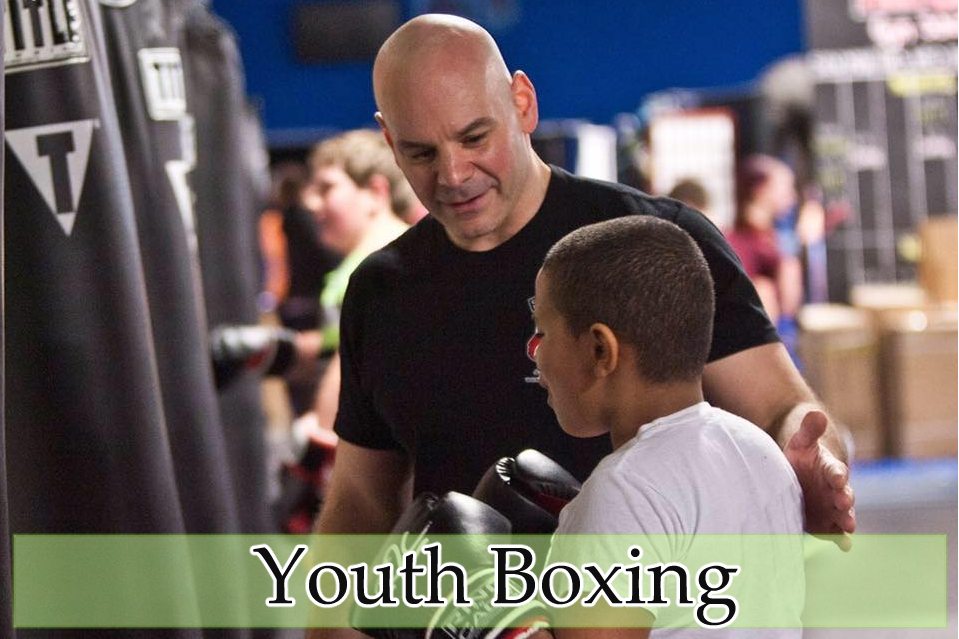
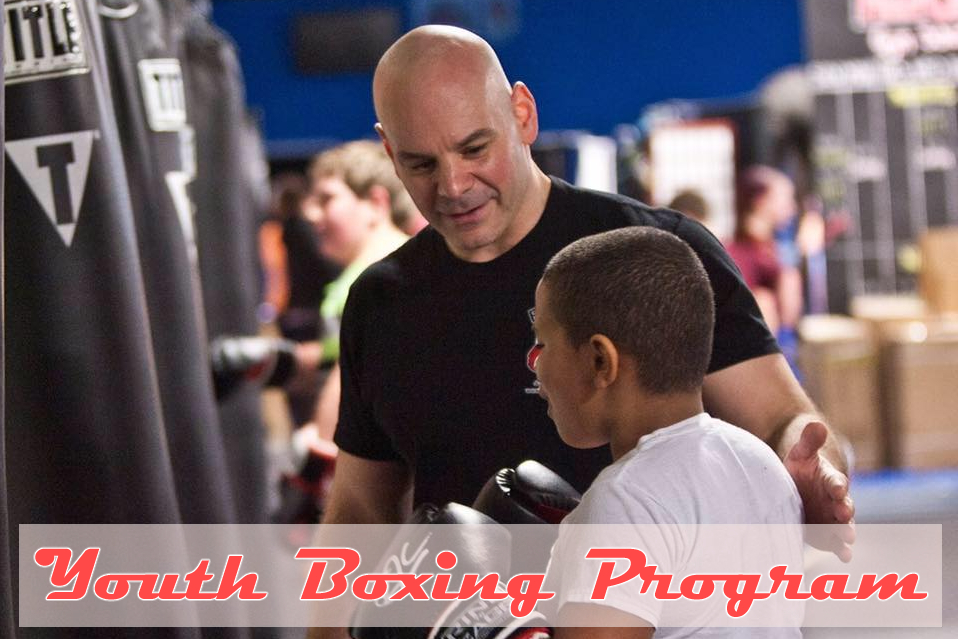
format updated

diff --git a/minerCombatHompage.html b/minerCombatHompage.html
@@ -3,64 +3,81 @@
     <head>
       <title>Miner Combat Homepage</title>
       <link rel= 'stylesheet' type='text/css' href='style.css'>
-      <link href="https://fonts.googleapis.com/css?family=Monoton" rel="stylesheet">
+      <link href="https://fonts.googleapis.com/css?family=Oswald" rel="stylesheet">
       <script src="https://ajax.googleapis.com/ajax/libs/jquery/3.3.1/jquery.min.js"></script>
     </head>
+
     <body>
+
       <header>
          <nav>
-             <a href=#aboutUs>About Us</a>
-             <a href=#whatWeOffer>What We Offer</a>
-             <a href=#schedule>Schedule</a>
-             <a href=#upcomingEvents>Upcoming Events</a>
-             <a href=#video>Video</a>
-             <a href=#contactUs>Contact Us</a>
-
+             <a href=#aboutUs>ABOUT US</a>
+             <a href=#whatWeOffer>WHAT WE OFFER</a>
+             <a href=#schedule>SCHEDULE</a>
+             <a href=#upcomingEvents>UPCOMING EVENTS</a>
+             <a href=#video>VIDEO</a>
+             <a href=#contactUs>CONTACT US</a>
          </nav>
-
       </header>
-      <!--banner-->
-      
-      <div id='bannerBorder'><img id = 'banner' src='images/banner.jpg'></div>
-      <h1 class='tagLine'>Largest, Most Affordable Gym in the BerkShires</h1>
+      <!--banner-->      
+      <img id = 'banner' src='images/banner.jpg'>
+      <h1 class='tagLine'>LARGEST, MOST AFFORDABLE GYM IN THE BERKSHIRES</h1>
       <!--Offered Classes-->
-      <div class='box'>
-         <!--Minor Combat Youth Boxing Program-->
-         <img class='classPhotos' src='images/Youth_Boxing.jpg'>        <div class='classDetails'>
-         
-            <p>Boxing offers children several mental health benefits needed in their daily lives. Improved physical health, and improved performance builds children's confidence. Extreme focus is required, and this can translate into better focus in the classroom. </p>
-            <p>This is a community outreach program for the youth of Northern Berkshire county and free to anyone who cannot afford the cost.</p>
-            <p>Tuesday, Wednesday and Thursday 4-5pm</p>
-         </div> 
-         <!--North Adams Crossfit-->
-         <img class='classPhotos' src='images/crossFit.jpg'>
-            <div class='classDetails'>
-            <h1>Coming Soon</h1>
-            </div>
-        <!--ChicBoxing-->
-         <img class='classPhotos' src='images/boxing2.jpg'>
-         <div class='classDetails'>           
-            <p>This strength training class is an empowering all women's boxing class set to exhilarating music.The high and low intensity rounds burn high calories and sculpt the body.</p> 
-            <p>Saturday 10:15am, Tuesday 6:45pm, Thursday 5:45pm</p>
-        </div> 
+     <div class = 'box'>
+      <div class = 'container'>
+        <img class ='classPhoto' src = 'images/chicboxing.jpg'>
+        <div class = 'overlay'>
+          <div class = 'text'>This strength training class is an empowering all women's boxing class set to exhilarating music.The high and low intensity rounds burn high calories and sculpt the body.<br><br>
+          Saturday 10:15am, Tuesday 6:45pm, Thursday 5:45pm
+          </div>
+        </div>
       </div>
-      <div class= 'box container'>
-         <!--RowBox-->
-         <img class='classPhotos' src='images/rowBox2.jpg'>
-         <div class='classDetails'> 
-             <p>Boxing and rowing combined with Assault Air Bikes, this class is a total body workout like no other!
-            <p>Using TOP OF THE LINE equipment and created exclusively by the Miner family.</p>
-            <p>Monday 6:30pm, Friday 5am</p>  
-         </div>
-         <!--Zumba-->
-         <img class='classPhotos' id ='zumba' src='images/zumba.jpg'>
-         <div class='classDetails'>
-            <p>Dance fitness featuring movements inspired by various styles of Latin American dance to Latin and American music. Monday and Wednesday 9:15am and 5:30pm, Saturday 9am</p>
-         </div>
-      </div>
-    </body>
-    <script type = 'text/javascript' src = script.js></script>
-    <footer>
 
-    </footer>
-</html>
+      <div class = 'container'>
+        <img class ='classPhoto' src = 'images/crossFit.jpg'>
+        <div class = 'overlay'>
+          <div class = 'text'>Coming Soon
+          </div>
+        </div>
+      </div>
+
+      <div class = 'container'>
+        <img class ='classPhoto' src = 'images/rowbox2.jpg'>
+        <div class = 'overlay'>
+          <div class = 'text'>Boxing and rowing combined with Assault Air Bikes, this class is a total body workout like no other! Using TOP OF THE LINE equipment and created exclusively by the Miner family. 
+            <br><br>
+            Monday 6:30pm, Friday 5am
+          </div>
+        </div>
+      </div>
+    </div>  
+
+    <div class = 'box'>
+        <div class = 'container'>
+            <img class ='classPhoto' src = 'images/Youth_Boxing.jpg'>
+            <div class = 'overlay'>
+              <div class = 'text'>Boxing offers children several mental health benefits needed in their daily lives. Improved physical health, and improved performance builds children's confidence. Extreme focus is required, and this can translate into better focus in the classroom. 
+              <br>
+              This is a community outreach program for the
+              youth of Northern Berkshire county and free to anyone who cannot afford the cost.
+              <br><br>
+              Tuesday, Wednesday and Thursday 4-5pm
+              </div>
+            </div>
+          </div>
+
+          <div class = 'container'>
+              <img class ='classPhoto' src = 'images/zumba.jpg'>
+              <div class = 'overlay'>
+                <div class = 'text'>Dance fitness featuring movements inspired by various styles of Latin American dance to Latin and American music.
+                <br><br>
+                Monday and Wednesday 9:15am and 5:30pm, Saturday 9am
+                </div>
+              </div>
+            </div>
+    </div>
+
+    </body>
+    <footer>
+      
+    </footer>     
